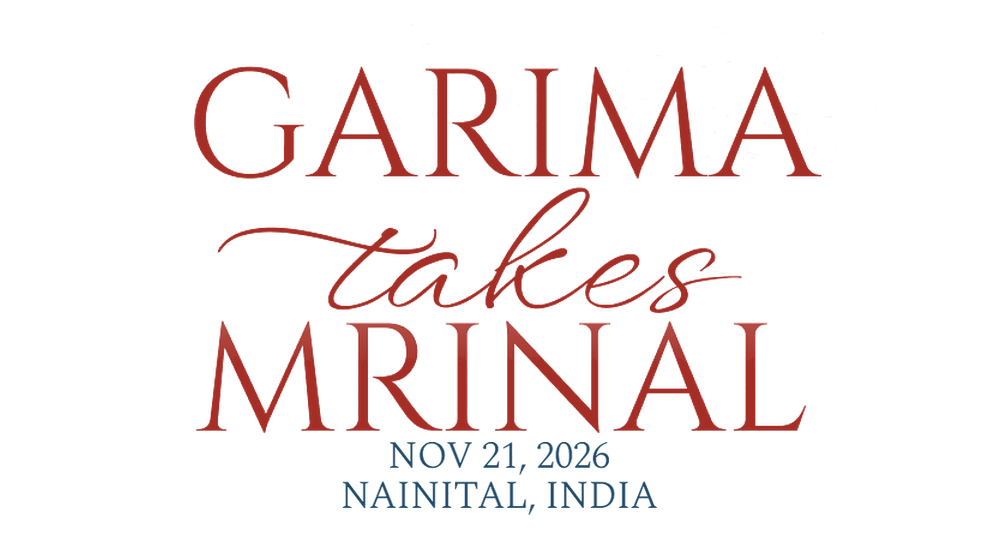
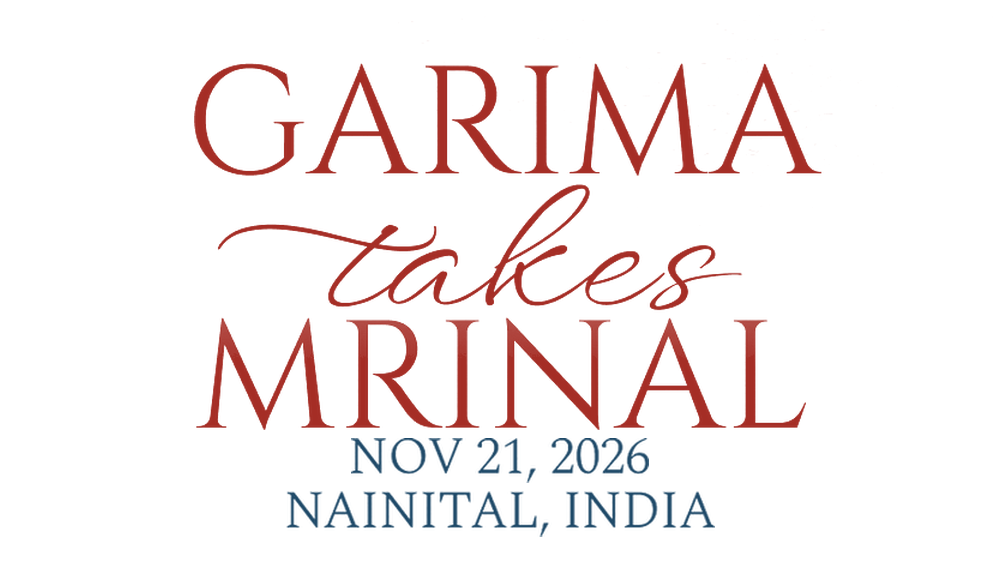
Move central text block upwards by 10% to top: 40% and match Date & Location font size to Unlock for details

diff --git a/index.html b/index.html
@@ -17,13 +17,13 @@
 <meta name="apple-mobile-web-app-title" content="GTM 2026">
 <title>Garima weds Mrinal · Nainital 2026</title>
 <meta name="description" content="Garima weds Mrinal · A wedding in the Kumaon hills · 20–22 November 2026 · Nainital, Uttarakhand">
-<link rel="icon" type="image/png" sizes="32x32" href="images/favicon-32x32.png?v=4100">
-<link rel="icon" type="image/png" sizes="64x64" href="images/favicon-64x64.png?v=4100">
-<link rel="icon" type="image/x-icon" href="favicon.ico?v=4100">
+<link rel="icon" type="image/png" sizes="32x32" href="images/favicon-32x32.png?v=4200">
+<link rel="icon" type="image/png" sizes="64x64" href="images/favicon-64x64.png?v=4200">
+<link rel="icon" type="image/x-icon" href="favicon.ico?v=4200">
 <link rel="preconnect" href="https://fonts.googleapis.com">
 <link rel="preconnect" href="https://fonts.gstatic.com" crossorigin>
 <link href="https://fonts.googleapis.com/css2?family=Cinzel:wght@400;500;600;700&family=Cormorant+Garamond:ital,wght@0,300;0,400;0,500;0,600;0,700;1,400;1,500&family=Spectral:wght@200;300;400;500;600;700&family=WindSong&display=swap" rel="stylesheet">
-<link rel="stylesheet" href="css/site.css?v=4100">
+<link rel="stylesheet" href="css/site.css?v=4200">
 <style>
 @font-face {
   font-family: 'WindSong';
@@ -145,7 +145,7 @@ html, body {
 /* ── 3. Central Typography Centerpiece (Option 2: Cinematic Grand Oversized +28%) ── */
 .home-hero-text {
   position: absolute;
-  top: 44%;
+  top: 40%;
   left: 50% !important;
   transform: translate(-50%, -50%) !important;
   width: min(108vw, 880px);
@@ -570,7 +570,7 @@ html, body {
           <!-- ── 3. Central Typography Centerpiece (Pixel-by-Pixel Master Design Lockup) ── -->
   <div class="home-hero-text">
     <div class="home-centerpiece-wrap">
-      <img src="images/home_centerpiece.png?v=4100" alt="GARIMA takes MRINAL · NOV 21, 2026 · NAINITAL, INDIA" class="home-centerpiece-img">
+      <img src="images/home_centerpiece.png?v=4200" alt="GARIMA takes MRINAL · NOV 21, 2026 · NAINITAL, INDIA" class="home-centerpiece-img">
     </div>
   </div>
 
@@ -905,7 +905,7 @@ document.addEventListener('DOMContentLoaded', function() {
   }
 });
 </script>
-<script src="js/spa-nav.js?v=4100"></script>
-<script src="js/global-audio.js?v=4100"></script>
+<script src="js/spa-nav.js?v=4200"></script>
+<script src="js/global-audio.js?v=4200"></script>
 </body>
 </html>
